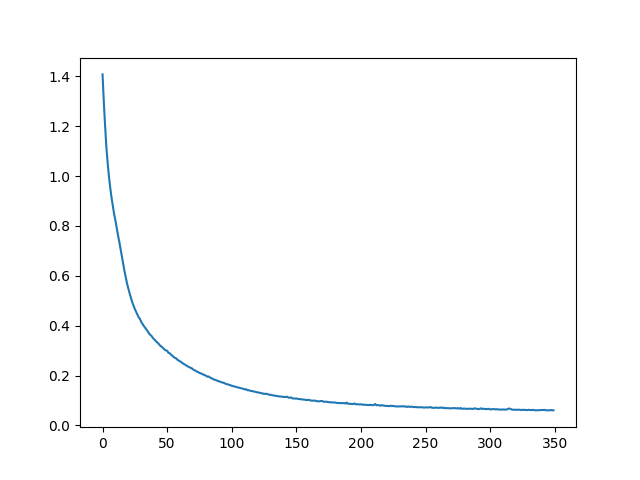
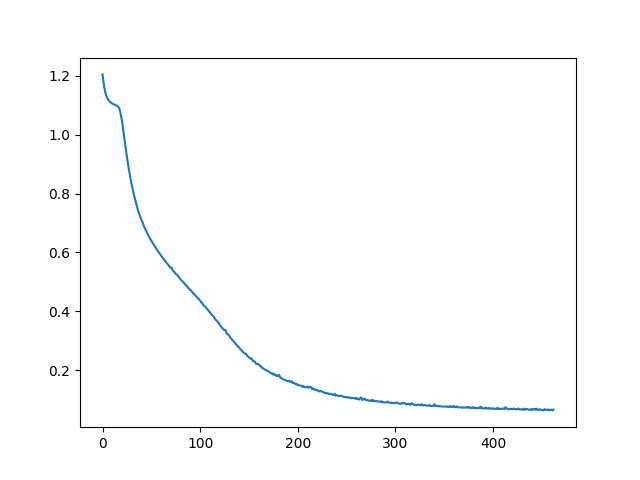
train second variant

diff --git a/train_test_model.py b/train_test_model.py
@@ -3,6 +3,8 @@ import LoadData
 from utils import match_predicion
 from sklearn.metrics import confusion_matrix,classification_report
 import matplotlib.pyplot as plt
+import random
+random.seed( 30 )
 
 # get data
 matching_classe = {0:'Setosa', 1:'Versicolor', 2:'Virginica'}
@@ -10,7 +12,7 @@ get_data = LoadData.LoadData('/data/iris.csv',matching_classe)
 X_train,X_test,y_train,y_test = get_data.create_train_test(0.2)
 
 # model vorbereiten
-classifier = Model.Model((10,),'tanh','adam',350, 10,True)
+classifier = Model.Model((5,3),'tanh','adam',500, 10,True)
 mlp = classifier.init_mlp_model()
 
 # training des Models
@@ -43,7 +45,7 @@ print(list_prediction)
 
 loss_values = mlp.loss_curve_
 plt.plot(loss_values)
-plt.savefig('./ergebnis/plot_of_loss_values.png')
+plt.savefig('./ergebnis/plot_of_loss_values2.png')
 plt.show()
 
 

diff --git a/README.md b/README.md
@@ -1,2 +1,16 @@
 # iris-Klassifikation_ML
 Diese implementierung basiert sich auf dem Buch von Mattieu Deru und Alassane Nddiaye nämlich Deep Learning mit tensorflow, keras und Tensorflow.js [Deep Learning mit tensorflow, keras und Tensorflow.js](https://www.google.com/url?sa=t&rct=j&q=&esrc=s&source=web&cd=3&cad=rja&uact=8&ved=2ahUKEwidtIK-0tfkAhXQfFAKHQnPCCAQFjACegQIAhAC&url=https%3A%2F%2Fs3-eu-west-1.amazonaws.com%2Fgxmedia.galileo-press.de%2Fleseproben%2F4715%2Fleseprobe_rheinwerk_deep_learning_mit_tensorflow_keras_tensorflow-js.pdf&usg=AOvVaw1Stmjo6NgiyeyDJaKs_Mno)
+
+## Ergebnis varinate 1 
+ 
+![alt text][logo]
+[logo]: iris-Klassifikation_ML/ergebnis/plot_of_loss_values.png "Bild für die erste Variante"
+
+## Ergebnis varinate 2
+ 
+![alt text][logo]
+[logo]: iris-Klassifikation_ML/ergebnis/plot_of_loss_values2.png "Bild für die zweite Variante"
+
+
+
+
